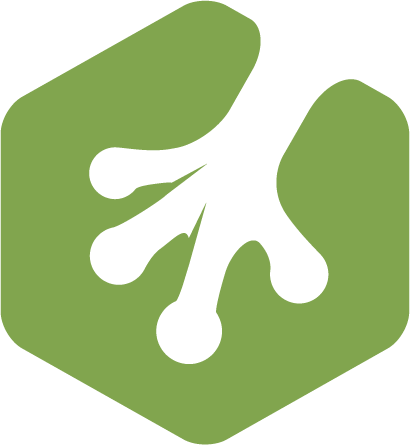
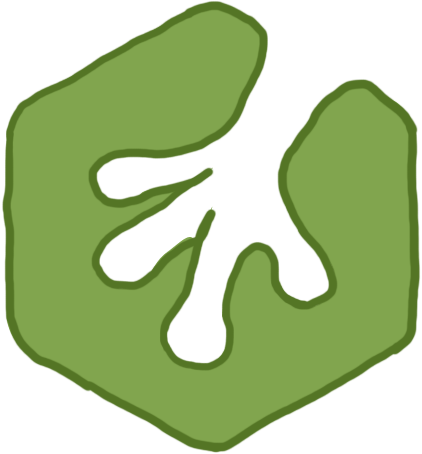
I got a wacom tablet
Draw everything!

Changed region(s): [[0.0, 0.0, 1.0, 1.0]]

diff --git a/index.html b/index.html
@@ -50,7 +50,7 @@
 		</header><!---navigation-->
 		
 		<div class="jumbotron clearfix">
-			<img class="me pull-right" src="images/me.jpg">
+			<img class="me pull-right" src="images/me.png">
 			<p>Hi! I'm Amber Dillenbeck. Welcome to my website. I'm a freelance web developer located in Collingswood, NJ, just a few minutes south of Philadephia.</p>
 			<p>I specialize in front-end web building. I take a lot of pride in writing clean, responsive HTML and CSS. I like to focus my attention on making sites that are simple, user friendly, and low cost.</p>
 			<p>If you think I might be able to help you build the site you're looking for contact me for a free consultation.</p>

diff --git a/style.css b/style.css
@@ -1,3 +1,8 @@
+/*TO DO
+
+*Make Portfolio images mobile responsive
+*center menu and social on mobile
+------------------------------------------------------------------*/
 
 body	{
 	background: #B2AC96 url("images/background.jpg") top left repeat fixed;
